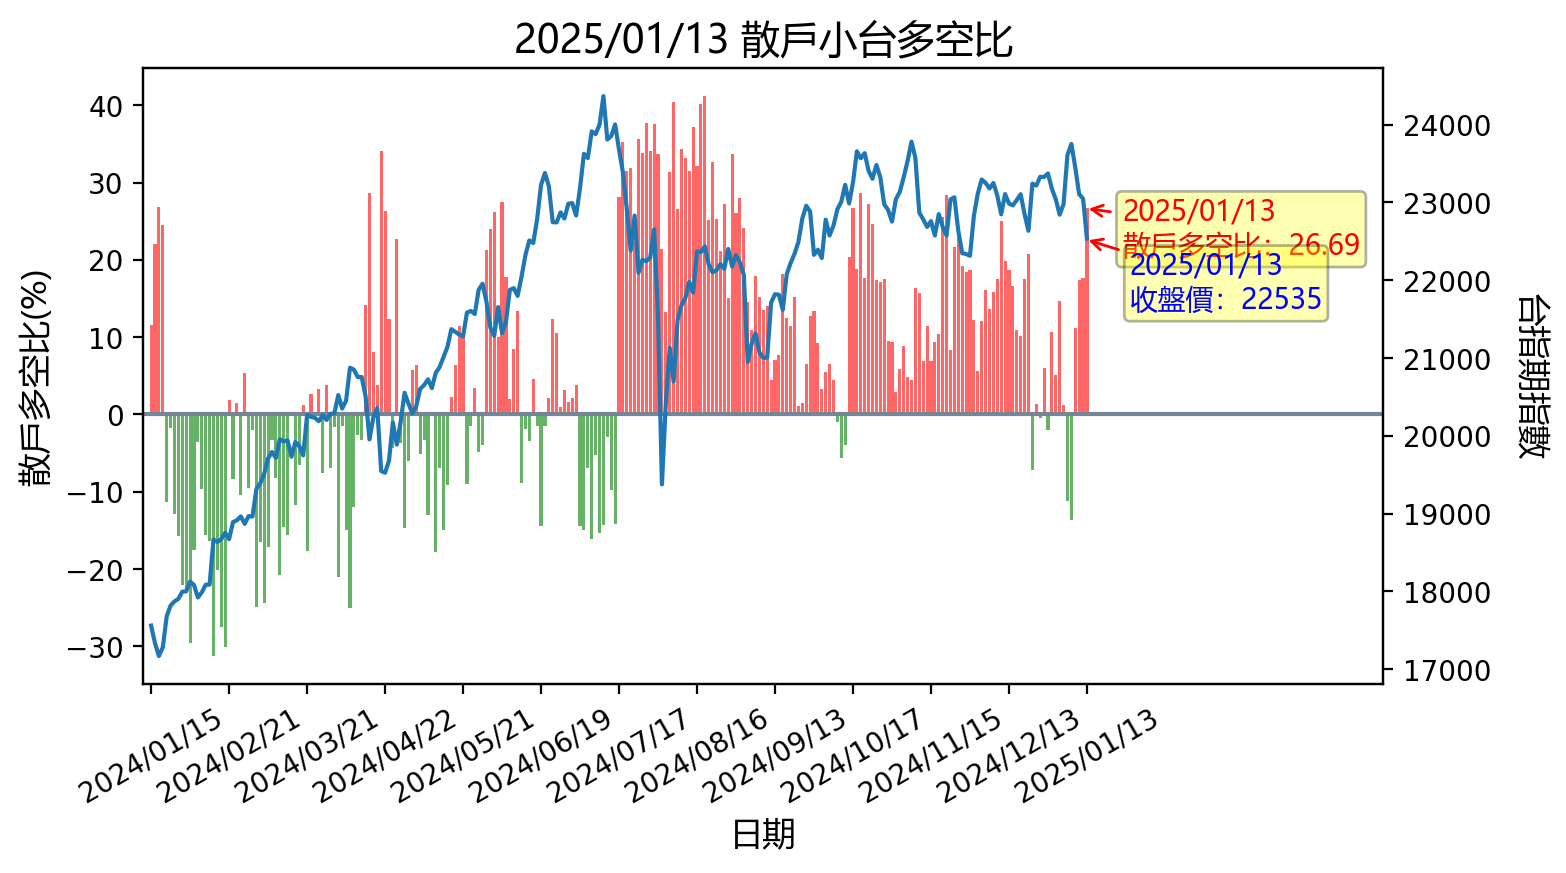
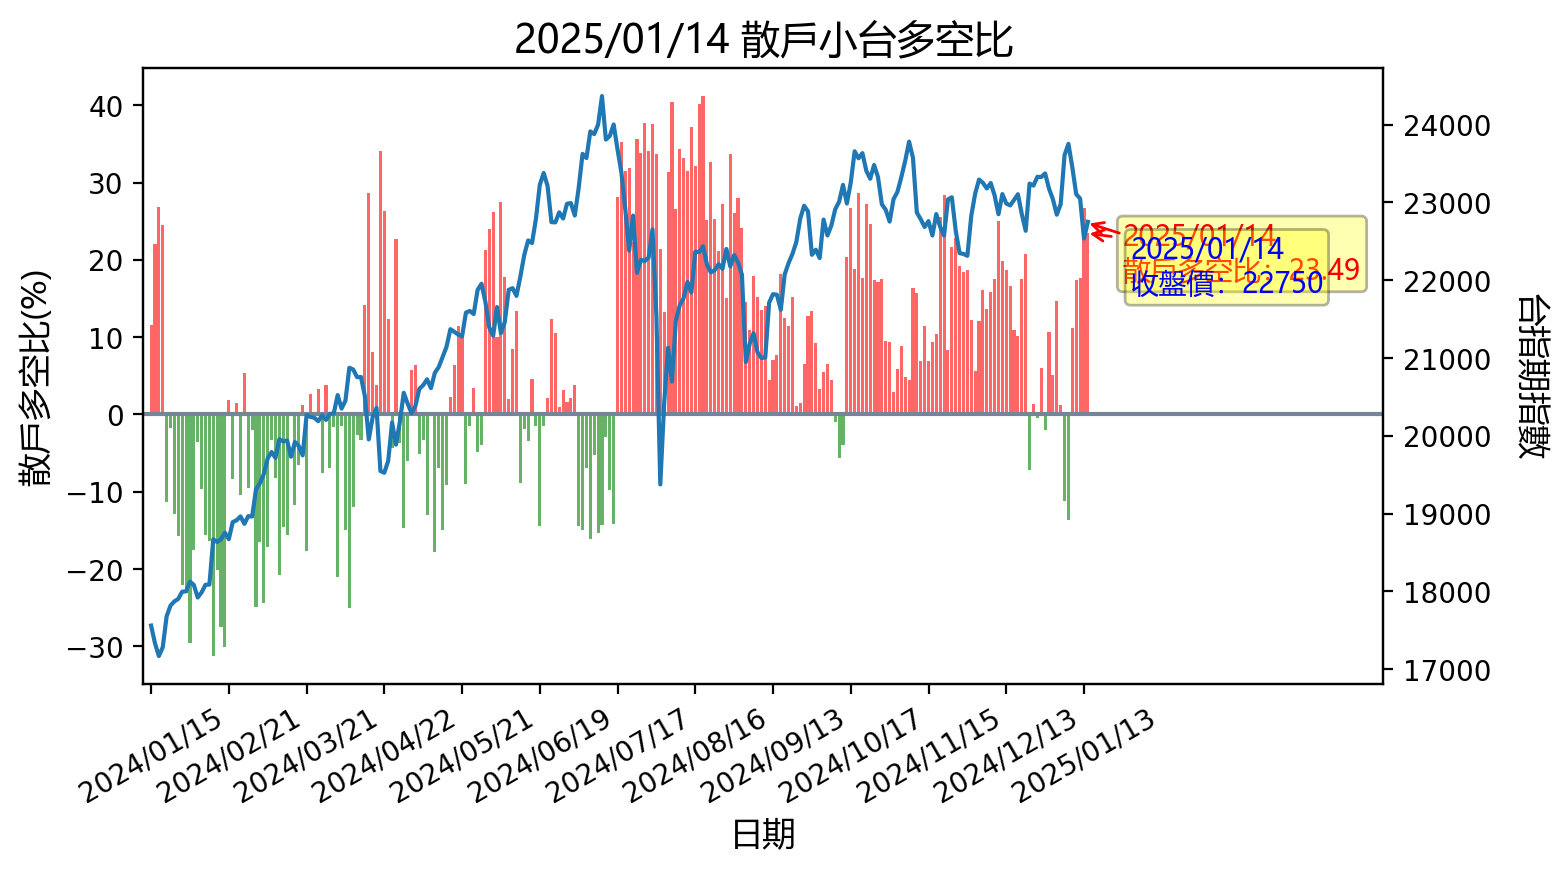
更新時間: Tue Jan 14 16:33:58 CST 2025

diff --git a/README.md b/README.md
@@ -1,12 +1,12 @@
-## 20250113 台指期「預估換倉成本」
+## 20250114 台指期「預估換倉成本」
 ![](images/txfcost.png)
 
-## 20250113 台指期「散戶小台多空比」
+## 20250114 台指期「散戶小台多空比」
 ![](images/bbiri.png)
 
-## 20250113 台指選擇權「Put/Call Ratios」
+## 20250114 台指選擇權「Put/Call Ratios」
 ![](images/pcratio.png)
 
-## 20250113 台指期「大額交易人」
+## 20250114 台指期「大額交易人」
 ![](images/blocktrade.png)
 
